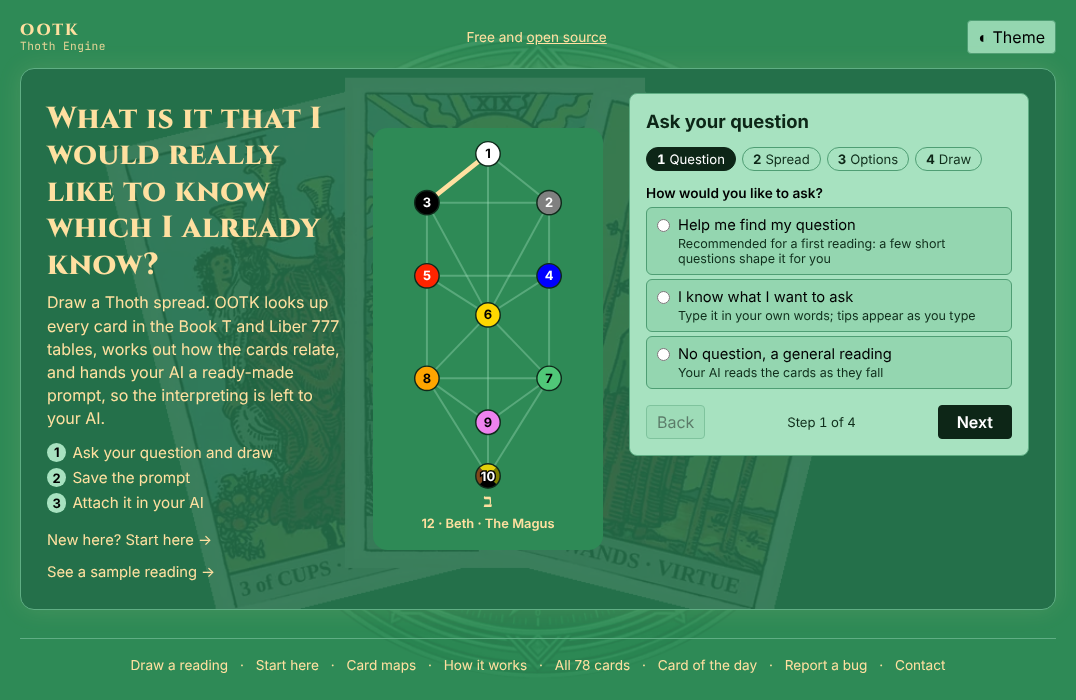
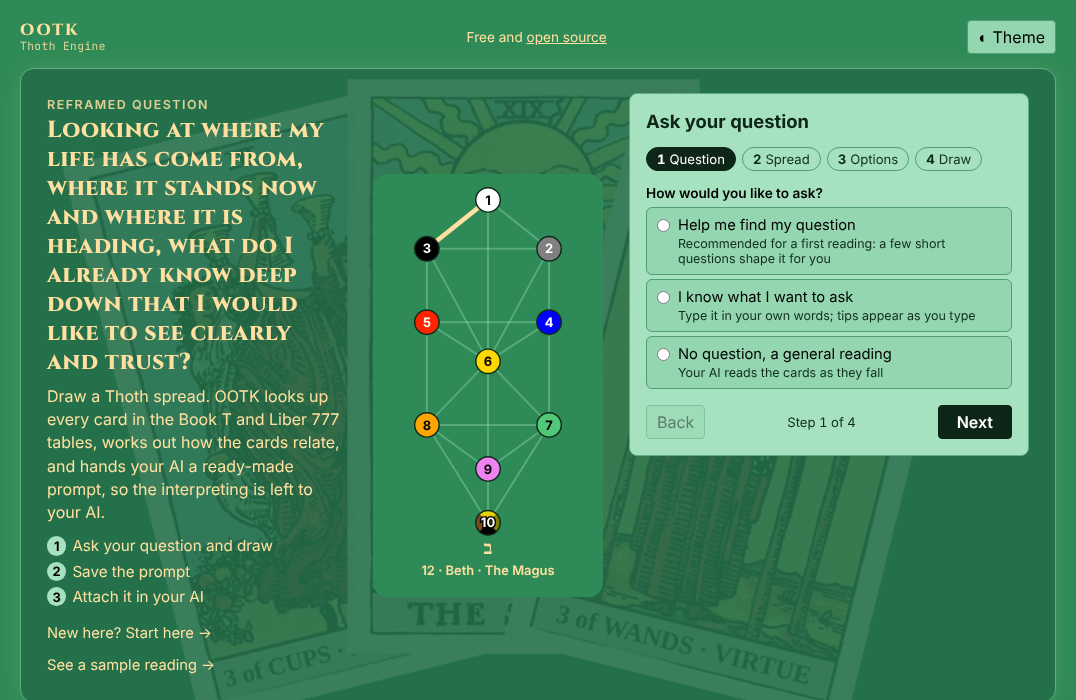
Front page: reframed question as the title, no emblem behind it
The headline is now the reframed question under a small "Reframed question"
label, set smaller so it fits. The faint emblem behind other pages is left off
the front page; the faded preview cards stay behind the banner.

Claude-Session: https://claude.ai/code/session_017ncajHf6c5M7Df9WvsGeCq

diff --git a/templates/index.html b/templates/index.html
@@ -21,6 +21,12 @@
         :root { --backdrop-opacity: 0.07; }
         :root[data-theme="light"] { --backdrop-opacity: 0.1; }
         .band { position: relative; isolation: isolate; }
+        /* The emblem behind other pages is left off here. */
+        body::before { content: none; }
+        /* The title is a long question, so it is set smaller than other banners'. */
+        .band .kicker { margin: 4px 0 0; font-size: 0.78em; font-weight: 600; letter-spacing: 0.12em; text-transform: uppercase; opacity: 0.85; }
+        .band h1#pageTitle { font-size: 1.45em; line-height: 1.25; margin-top: 4px; }
+        @media (max-width: 860px) { .band h1#pageTitle { font-size: 1.18em; } }
         .band::before { content: ""; position: absolute; inset: 0; z-index: -1; pointer-events: none; border-radius: inherit; background: url("{{ static_url('site/front-backdrop.webp') }}") 30% 50% / auto 120% no-repeat; opacity: var(--backdrop-opacity); }
         @media (max-width: 860px) { .band::before { background-position: 50% 0; background-size: 100% auto; opacity: calc(var(--backdrop-opacity) * 0.7); } }
         /* Start page: what OOTK is beside the settings. */
@@ -110,7 +116,8 @@
     <!-- Banner: what it is, for whom and how on the left; the settings for your own reading on the right. -->
     <section class="band" aria-labelledby="pageTitle">
         <div class="band-text">
-            <h1 id="pageTitle">What is it that I would really like to know which I already know?</h1>
+            <p class="kicker">Reframed question</p>
+            <h1 id="pageTitle">Looking at where my life has come from, where it stands now and where it is heading, what do I already know deep down that I would like to see clearly and trust?</h1>
             <p class="tagline">Draw a Thoth spread. OOTK looks up every card in the Book&nbsp;T and Liber&nbsp;777 tables, works out how the cards relate, and hands your AI a ready-made prompt, so the interpreting is left to your AI.</p>
             <ol class="steps" aria-label="How it works">
                 <li><span>1</span> Ask your question and draw</li>

diff --git a/tests/test_app_and_engine.py b/tests/test_app_and_engine.py
@@ -1696,7 +1696,8 @@ def test_wrong_admin_passwords_lock_the_visitor_out(client, monkeypatch):
 def test_start_page_first_screen_says_who_it_is_for_and_what_to_do(client):
     page = client.get("/").text
     assert "so the interpreting is left to your AI." in page
-    assert "What is it that I would really like to know which I already know?</h1>" in page
+    assert "Looking at where my life has come from, where it stands now and where it is heading, what do I already know deep down that I would like to see clearly and trust?</h1>" in page
+    assert "body::before { content: none; }" in page             # no emblem behind the front page
     assert "site/front-backdrop.webp" in page                   # the preview's cards, faded behind the banner
     assert client.get("/static/site/front-backdrop.webp").status_code == 200
     assert "ChatGPT" not in page and "For tarot readers" not in page

diff --git a/README.md b/README.md
@@ -6,7 +6,7 @@
 
 **Try it online: [tarotthoth.com](https://tarotthoth.com)** (free hosting, so the first visit after a quiet spell takes about a minute to wake up). Card images there are Pamela Colman Smith's public-domain 1909 Rider-Waite-Smith art, because the Thoth paintings are copyrighted.
 
-![The start page: the headline "What is it that I would really like to know which I already know?" over the faded three cards from the link preview, the three steps (ask your question and draw, save the prompt, attach it in your AI), the Tree of Life animation lighting Path 15 (Heh, The Star) and the "Ask your question" wizard on its first step, "How would you like to ask?"](docs/images/front.png)
+![The start page: the headline "Reframed question: Looking at where my life has come from, where it stands now and where it is heading, what do I already know deep down that I would like to see clearly and trust?" over the faded three cards from the link preview, the three steps (ask your question and draw, save the prompt, attach it in your AI), the Tree of Life animation lighting Path 15 (Heh, The Star) and the "Ask your question" wizard on its first step, "How would you like to ask?"](docs/images/front.png)
 
 The report and [/maps](https://tarotthoth.com/maps) also place the Hebrew letters and the Platonic solids in three-dimensional space: the **Cube of Space** from the Sefer Yetzirah (three mother letters as axes, seven doubles as faces and centre, twelve simples as edges) and each card's solid with its dual. These are pictures to explore, not part of the AI prompt; the [Method page](https://tarotthoth.com/method#space) explains them.
 
